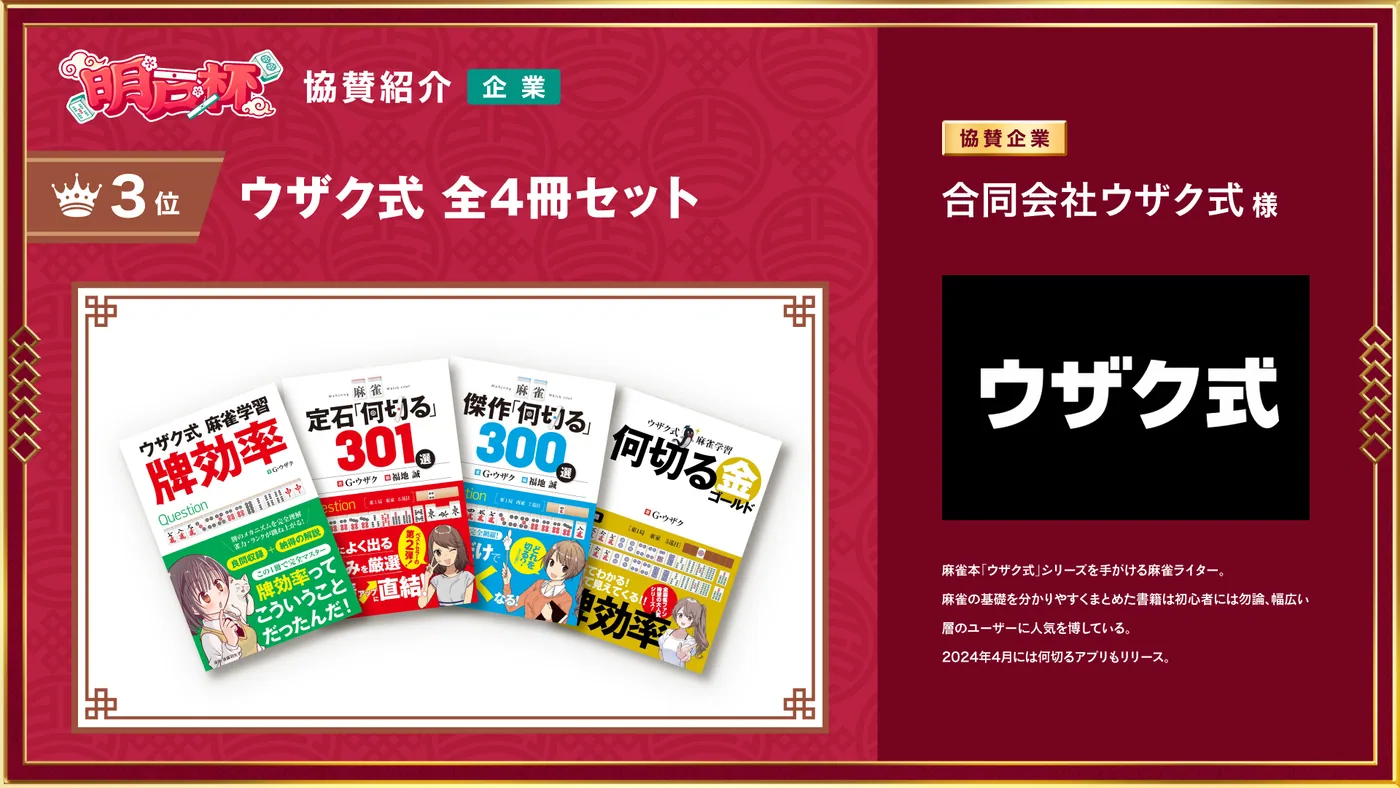
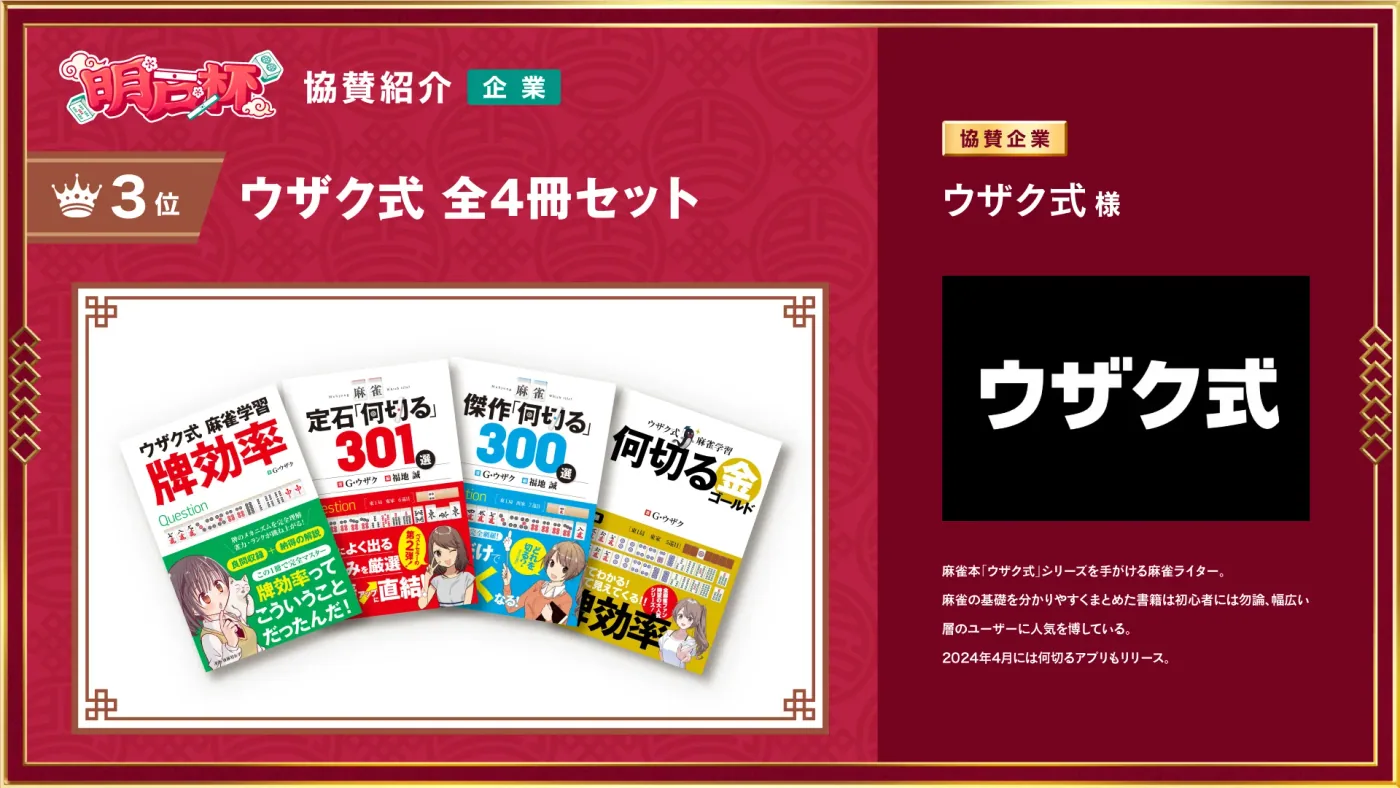
10102回目

diff --git a/site/public/assets/RENAME.md b/site/public/assets/RENAME.md
@@ -2,9 +2,9 @@
 
 `tools/import-assets.mjs` が自動生成しています。手で編集しないでください。
 
-- 生成日時: 2026/10/10 13:55:52
+- 生成日時: 2026/10/10 14:12:13
 - 元素材フォルダ: `素材フォルダ追加含む`
-- 合計: 62 ファイル / 4029 KB
+- 合計: 62 ファイル / 4020 KB
 
 元素材のファイル名は日本語や記号を含み、そのままでは URL に使えないため、
 半角英数のファイル名へ変換したうえで `site/public/assets/` 配下に配置しています。
@@ -78,7 +78,7 @@
 | --- | --- | --- | --- |
 | `デザイン周り/協賛紹介画像/協賛紹介_企業_1位_スリーアール株式会社様.jpg` | `public/assets/prizes/rank01-3r-agrelux.webp` | 1位 賞品紹介 | 1400×788 / 78 KB |
 | `デザイン周り/協賛紹介画像/協賛紹介_企業_2位_株式会社木村酒造様.jpg` | `public/assets/prizes/rank02-kimura-shuzo.webp` | 2位 賞品紹介 | 1400×788 / 122 KB |
-| `デザイン周り/協賛紹介画像/協賛紹介_企業_3位_合同会社ウザク式様.jpg` | `public/assets/prizes/rank03-uzakushiki.webp` | 3位 賞品紹介 | 1400×788 / 102 KB |
+| `1010追加分/ウザク式様修正.webp` | `public/assets/prizes/rank03-uzakushiki.webp` | 3位 賞品紹介 | 1400×788 / 92 KB |
 | `デザイン周り/協賛紹介画像/協賛紹介_企業_4位_合資会社奥山商店様.jpg` | `public/assets/prizes/rank04-okuyama-shoten.webp` | 4位 賞品紹介 | 1400×788 / 75 KB |
 | `デザイン周り/協賛紹介画像/協賛紹介_企業_5位_online pâtisserie Lien様.jpg` | `public/assets/prizes/rank05-lien.webp` | 5位 賞品紹介 | 1400×788 / 123 KB |
 | `デザイン周り/協賛紹介画像/協賛紹介_企業_6〜7位_沼津麺百式様.jpg` | `public/assets/prizes/rank06-07-men-hyakushiki.webp` | 6〜7位 賞品紹介 | 1400×788 / 94 KB |
